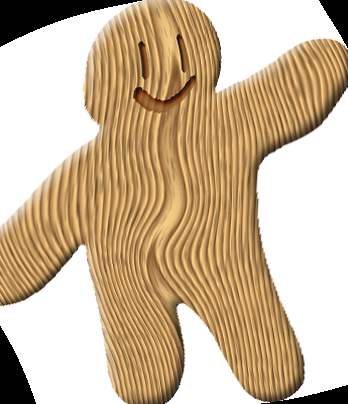
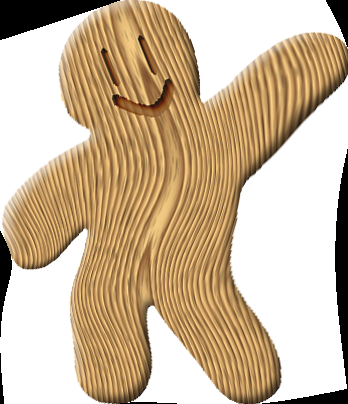
modify main code

diff --git a/HW2/MathMethods18-Ex02-20183151-Chaelin-Kim/MathMethods18-Ex02-20183151-Chaelin-Kim/code/main.m b/HW2/MathMethods18-Ex02-20183151-Chaelin-Kim/MathMethods18-Ex02-20183151-Chaelin-Kim/code/main.m
@@ -17,10 +17,15 @@ vLen = size(v,1);
 weightAlpha = 1.1;
 
 % % Example Control point
-sourceCP = [[166, 55]; [40, 157]; [175, 185]; [270, 157]; [335, 157]; ...
-            [181, 262]; [118, 369]; [252, 369]];
-targetCP = [[166, 55]; [8, 268]; [175, 185]; [271, 111]; [338, 57]; ...
-            [160, 266]; [147, 369]; [272, 369]];
+% sourceCP = [[166, 55]; [40, 157]; [175, 185]; [270, 157]; [335, 157]; ...
+%             [181, 262]; [118, 369]; [252, 369]];
+% targetCP = [[166, 55]; [8, 268]; [175, 185]; [271, 111]; [338, 57]; ...
+%             [160, 266]; [147, 369]; [272, 369]];
+
+sourceCP = [[18,168]; [173,157]; [339, 160]; [129, 299]; [227, 294]; ...
+            [116, 390]; [263, 392]];
+targetCP = [[30, 250]; [173,157]; [341, 55]; [98, 299]; [188, 294]; ...
+            [116, 390]; [263, 392]];
 
 %% Show the original image
 % Select some input and output control points

diff --git a/HW2/MathMethods18-Ex02-20183151-Chaelin-Kim/MathMethods18-Ex02-20183151-Chaelin-Kim/code/makeDefImg.m b/HW2/MathMethods18-Ex02-20183151-Chaelin-Kim/MathMethods18-Ex02-20183151-Chaelin-Kim/code/makeDefImg.m
@@ -25,8 +25,10 @@ end
 %     if y <= 0, y = 1; end
 %     if x >= columns, x = columns; end
 %     if y >= rows,    y = rows;    end
+%
 %     defImg((x-1) * rows + y, :) = reshapeImg(itr, :);
 % end
+% 
 % defImg = uint8(reshape(defImg, rows, columns, numOfColorChannels));
 
 end
